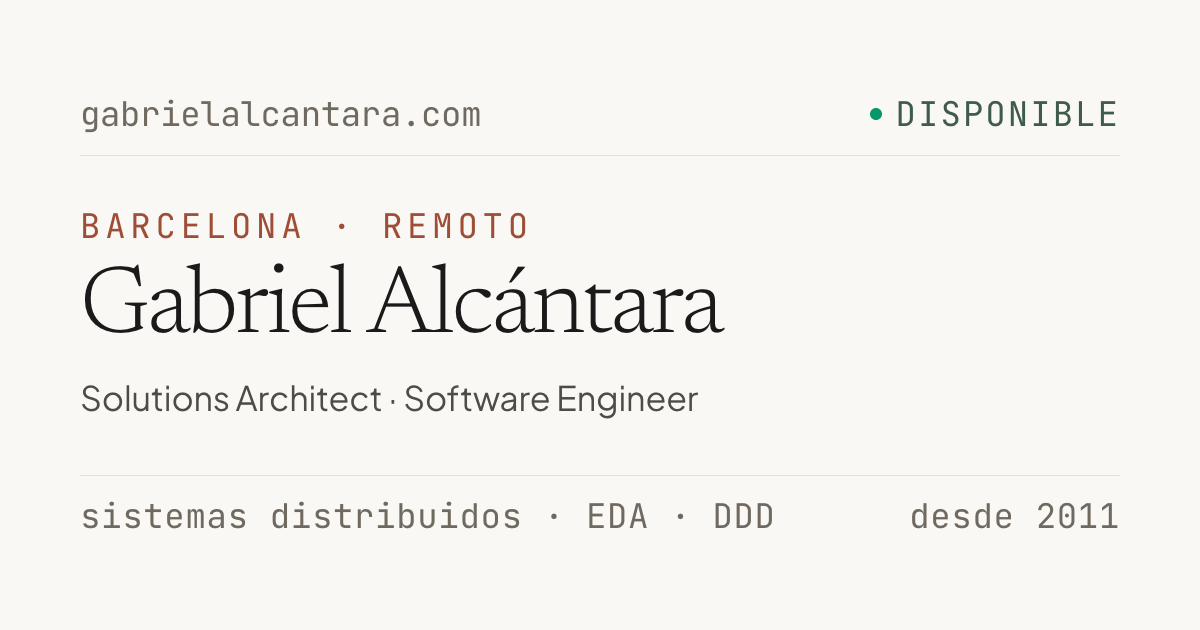
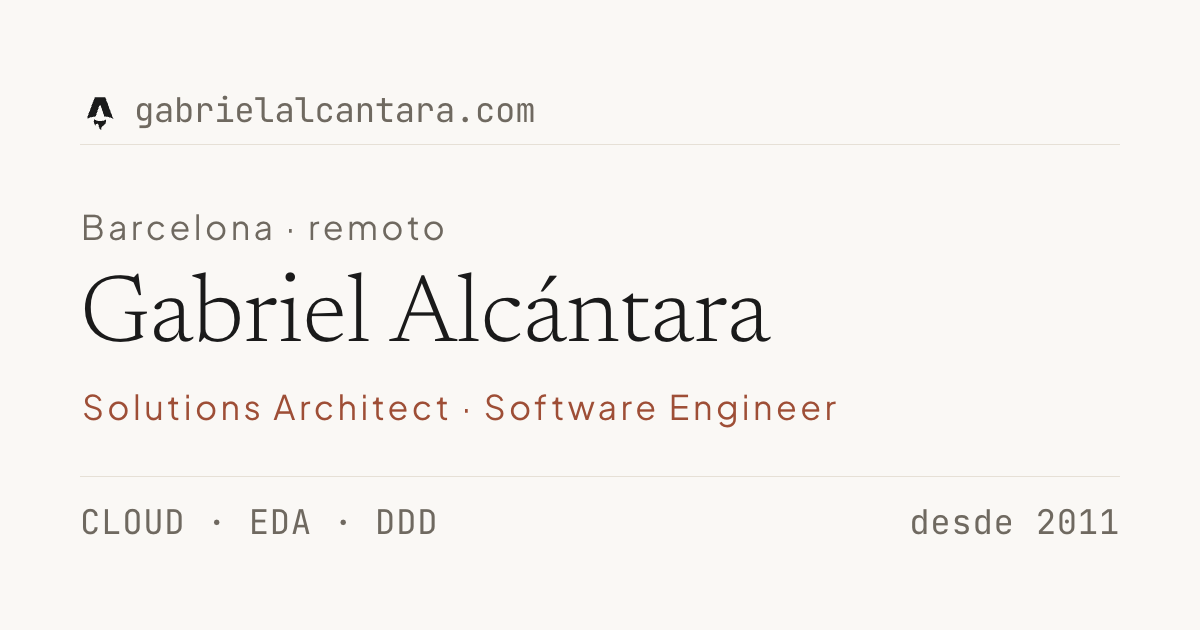
💄 style(og): rebuild the card on the site mark and the safe zone
The masthead carries the site mark and the address instead of the availability
badge, the kicker moves to sans in the faint ink, the standfirst takes the
terracotta, and every slot sits inside the 5% crop some feeds apply. The
rhythm becomes 92 / 80 / 24 / 24 / 80 / 92 and the eight cards are re-exported.

diff --git a/docs/og-image/card.html b/docs/og-image/card.html
@@ -39,21 +39,28 @@
 }
 
 :root {
-	/* Two label sizes and one display size. The heights and the two gaps derive
-	   all five tops, so the rhythm cannot drift and export.mjs can check it. */
+	/*
+	 * The editor asked for 30px on the two label rows. The exporter refuses
+	 * anything under 34: a timeline draws the card near 504px wide, so 34px
+	 * lands at about 14px on screen. Labels stay at the floor and their rows
+	 * follow line-height 1, which moves the margin from 104 to 100.
+	 */
 	--slot-label: 34px;
 	--slot-title: 96px;
 
-	--h-domain: 34px;
+	/* The masthead row is 40 so the mark fits inside it, not over the rule. */
+	--h-domain: 40px;
 	--h-eyebrow: 34px;
 	--h-title: 96px;
-	--h-sub: 46px;
+	--h-sub: 34px;
 	--h-foot: 34px;
 
-	/* One gap between the three central lines is tight; the two outer gaps and
-	   the margin carry the air, so the block reads as a group. */
-	--space: 78px;
-	--space-tight: 18px;
+	/* The eyebrow, the lead and the standfirst are one block: 24px between
+	   them, and 80px from the block to the two label rows. That ratio — three
+	   times more air outside than inside — is what makes the three read as a
+	   group instead of three evenly spaced lines. */
+	--space: 80px;
+	--space-tight: 24px;
 
 	--margin: calc(
 		(630px - var(--h-domain) - var(--h-eyebrow) - var(--h-title) -
@@ -66,15 +73,24 @@
 	--y-sub: calc(var(--y-title) + var(--h-title) + var(--space-tight));
 	--y-foot: calc(var(--y-sub) + var(--h-sub) + var(--space));
 
-	/* The hairline sits under the masthead and over the footer: attached to the
-	   outer rows, like the site's section rules. */
-	--rule-gap: 24px;
+	/* Attached to the outer rows, like the site's section rules. */
+	--rule-gap-top: 12px;
+	--rule-gap-foot: 28px;
 
 	/* The two halves of one row never touch. */
 	--foot-gap: 40px;
 
+	/*
+	 * The 5% safe zone some feeds crop to — 60 × 31.5px on this canvas, the same
+	 * guide the card editor draws. Everything lives inside it: the column starts
+	 * 20px in, and the first and last rows sit 92px from the edges. The gutter
+	 * stays a plain length because the exporter reads it with parseFloat.
+	 */
 	--x: 80px;
 	--width: 1040px;
+
+	--logo-size: 40px;
+	--logo-gap: 16px;
 
 	--paper: #faf8f5;
 	--ink: #1a1a1a;
@@ -82,6 +98,8 @@
 	--ink-faint: #6f6960;
 	--line: #e6e0d6;
 	--accent: #9e4e36;
+	--sage: #3e5c49;
+	--dot: #059669;
 }
 
 * { box-sizing: border-box; margin: 0; padding: 0; }
@@ -117,11 +135,10 @@ html, body { background: var(--paper); }
 	background: var(--line);
 }
 
-.rule--top { top: calc(var(--y-domain) + var(--h-domain) + var(--rule-gap)); }
-.rule--foot { top: calc(var(--y-foot) - var(--rule-gap)); }
+.rule--top { top: calc(var(--y-domain) + var(--h-domain) + var(--rule-gap-top)); }
+.rule--foot { top: calc(var(--y-foot) - var(--rule-gap-foot)); }
 
-/* The masthead: one mono line at address size, the way the site labels a
-   section, not a logo lockup. */
+/* The masthead: the mark and the address, on one row. */
 .masthead {
 	top: var(--y-domain);
 	height: var(--h-domain);
@@ -136,39 +153,50 @@ html, body { background: var(--paper); }
 	color: var(--ink-faint);
 }
 
-.masthead .domain { letter-spacing: -.01em; }
-
-/* The availability badge is the site's one green signal, dot included. */
-.masthead .status {
+.lockup {
 	display: inline-flex;
 	align-items: center;
-	gap: 14px;
+	gap: var(--logo-gap);
 	flex: none;
-	letter-spacing: .06em;
-	text-transform: uppercase;
-	color: #3e5c49;
 }
 
-.masthead .status::before {
-	content: "";
-	width: 12px;
-	height: 12px;
-	border-radius: 999px;
-	background: #059669;
+.mark {
+	display: inline-flex;
+	flex: none;
+	width: var(--logo-size);
+	height: var(--logo-size);
+	color: var(--ink);
 }
 
-/* The kicker: the site's terracotta mono label, tracked and uppercase. */
+.mark svg { display: block; width: 100%; height: 100%; }
+
+/* The type nudges are a property of the text, not of the row: the grid stays
+   on its declared tops and the gate can still measure the rhythm. */
+.masthead .domain {
+	display: inline-block;
+	letter-spacing: -.01em;
+	transform: translate(-2px, -2px);
+}
+
+/* The kicker: sans at label size, tracked, in the faint ink. */
 .eyebrow {
 	top: var(--y-eyebrow);
 	height: var(--h-eyebrow);
 	line-height: var(--h-eyebrow);
-	font-family: "CardMono", ui-monospace, monospace;
+	font-family: "CardSans", ui-sans-serif, system-ui, sans-serif;
 	font-size: var(--slot-label);
 	font-weight: 400;
-	letter-spacing: .14em;
-	text-transform: uppercase;
-	color: var(--accent);
+	letter-spacing: .1em;
+	text-transform: none;
+	color: var(--ink-faint);
 }
+
+.eyebrow span,
+.lead span {
+	display: inline-block;
+}
+
+.eyebrow span { transform: translate(1px, -2px); }
 
 .lead {
 	top: var(--y-title);
@@ -177,11 +205,17 @@ html, body { background: var(--paper); }
 	font-family: "CardSerif", Georgia, "Times New Roman", serif;
 	font-size: var(--slot-title);
 	font-weight: 300;
-	letter-spacing: -.03em;
+	letter-spacing: 0;
 	color: var(--ink);
 }
 
-/* The line that explains the title is body copy on the site, so it is sans. */
+/*
+ * The editor nudged the lead -3px. The exporter refuses text that invades the
+ * 80px gutter, and the lead starts on that line, so it keeps its left edge.
+ */
+.lead span { transform: translate(0, 0); }
+
+/* The line that explains the title: sans at label size, tracked, in the accent. */
 .sub {
 	top: var(--y-sub);
 	height: var(--h-sub);
@@ -189,8 +223,18 @@ html, body { background: var(--paper); }
 	font-family: "CardSans", ui-sans-serif, system-ui, sans-serif;
 	font-size: var(--slot-label);
 	font-weight: 400;
-	letter-spacing: -.005em;
-	color: var(--ink-muted);
+	letter-spacing: .1em;
+	color: var(--accent);
+}
+
+/*
+	 * The editor pulled this line 28px up, into the lead's row. It now sits on
+	 * its own row: the two lines no longer touch, and the gap above reads as a
+	 * gap instead of a collision.
+	 */
+.sub span {
+	display: inline-block;
+	transform: translate(2px, 0);
 }
 
 .foot {
@@ -213,6 +257,8 @@ html, body { background: var(--paper); }
 
 .foot .right { flex: none; }
 
+.foot span { display: inline-block; transform: translate(0, 1px); }
+
 [hidden] { display: none !important; }
 </style>
 </head>
@@ -223,15 +269,18 @@ html, body { background: var(--paper); }
 	<div class="rule rule--foot" aria-hidden="true"></div>
 
 	<div class="masthead slot" data-slot="domain">
-		<span class="domain" id="domain">gabrielalcantara.com</span>
-		<span class="status" id="status">Disponible</span>
+		<span class="lockup">
+			<span class="mark" aria-hidden="true"><svg xmlns="http://www.w3.org/2000/svg" fill="none" viewBox="0 0 128 128"><path fill="currentColor" d="M50.4 78.5a75.1 75.1 0 0 0-28.5 6.9l24.2-65.7c.7-2 1.9-3.2 3.4-3.2h29c1.5 0 2.7 1.2 3.4 3.2l24.2 65.7s-11.6-7-28.5-7L67 45.5c-.4-1.7-1.6-2.8-2.9-2.8-1.3 0-2.5 1.1-2.9 2.7L50.4 78.5Zm-1.1 28.2Zm-4.2-20.2c-2 6.6-.6 15.8 4.2 20.2a17.5 17.5 0 0 1 .2-.7 5.5 5.5 0 0 1 5.7-4.5c2.8.1 4.3 1.5 4.7 4.7.2 1.1.2 2.3.2 3.5v.4c0 2.7.7 5.2 2.2 7.4a13 13 0 0 0 5.7 4.9v-.3l-.2-.3c-1.8-5.6-.5-9.5 4.4-12.8l1.5-1a73 73 0 0 0 3.2-2.2 16 16 0 0 0 6.8-11.4c.3-2 .1-4-.6-6l-.8.6-1.6 1a37 37 0 0 1-22.4 2.7c-5-.7-9.7-2-13.2-6.2Z"/></svg></span>
+			<span class="domain" id="domain">gabrielalcantara.com</span>
+		</span>
 	</div>
-	<p class="eyebrow slot" id="eyebrow" data-slot="eyebrow">Barcelona · remoto</p>
-	<h1 class="lead slot" id="lead" data-slot="title">Gabriel Alcántara</h1>
-	<p class="sub slot" id="sub" data-slot="sub">Solutions Architect · Software Engineer</p>
+
+	<p class="eyebrow slot" data-slot="eyebrow"><span id="eyebrow">Barcelona · remoto</span></p>
+	<h1 class="lead slot" data-slot="title"><span id="lead">Gabriel Alcántara</span></h1>
+	<p class="sub slot" data-slot="sub"><span id="sub">Solutions Architect · Software Engineer</span></p>
 
 	<footer class="foot slot" data-slot="foot">
-		<span id="footLeft">sistemas distribuidos · EDA · DDD</span>
+		<span id="footLeft">CLOUD · EDA · DDD</span>
 		<span class="right" id="footRight">desde 2011</span>
 	</footer>
 </div>
@@ -245,11 +294,10 @@ html, body { background: var(--paper); }
 	var footLeft = document.getElementById('footLeft');
 	var footRight = document.getElementById('footRight');
 	var domain = document.getElementById('domain');
-	var status = document.getElementById('status');
 
 	function setText(element, value) {
 		element.textContent = value == null ? '' : String(value);
-		element.hidden = !element.textContent.trim();
+		return element.textContent.trim();
 	}
 
 	function render(copy) {
@@ -257,16 +305,14 @@ html, body { background: var(--paper); }
 		document.documentElement.lang = 'es';
 
 		if (copy.domain) setText(domain, copy.domain);
-		if (copy.status) setText(status, copy.status);
 		setText(eyebrow, copy.eyebrow);
 		setText(lead, copy.title);
 		setText(sub, copy.sub);
 		setText(footLeft, copy.footLeft);
-		setText(footRight, copy.footRight);
+		footRight.hidden = !setText(footRight, copy.footRight);
 
 		card.setAttribute('aria-label', [
 			domain.textContent.trim(),
-			status.textContent.trim(),
 			eyebrow.textContent.trim(),
 			lead.textContent.trim(),
 			sub.textContent.trim(),
@@ -289,7 +335,6 @@ html, body { background: var(--paper); }
 	render({
 		kind: query.get('kind') || 'default',
 		domain: query.get('domain'),
-		status: query.get('status'),
 		title: query.get('title'),
 		sub: query.get('sub'),
 		eyebrow: query.get('eyebrow'),

diff --git a/docs/og-image/README.md b/docs/og-image/README.md
@@ -8,17 +8,21 @@ the browser, and export when the copy or the layout changes.
 
 ## The one rule
 
-The card is a rigid template: **three faces, three sizes, five slots, one line
+The card is a rigid template: **three faces, two sizes, five slots, one line
 each, nothing reflows.** The faces and colours are the site's own: JetBrains Mono
-for the labels, Newsreader 300 for the lead, Plus Jakarta Sans for the standfirst.
+for the labels, Newsreader 300 for the lead, Plus Jakarta Sans for the kicker and
+the standfirst.
 
 | # | Slot | Face | Size | Height | Holds |
 | --- | --- | --- | --- | --- | --- |
-| 1 | domain | mono | 34 px | 34 | `gabrielalcantara.com` on the left, the availability badge on the right |
-| 2 | eyebrow | mono | 34 px | 34 | uppercase, tracked, terracotta: category, `Caso de estudio · Company`, place |
+| 1 | domain | mono | 34 px | 40 | the mark, then `gabrielalcantara.com` |
+| 2 | eyebrow | sans | 34 px | 34 | tracked, in the faint ink: category, `Caso de estudio · Company`, place |
 | 3 | title | serif 300 | 96 px | 96 | the name or the headline |
-| 4 | sub | sans | 34 px | 46 | role or standfirst, in the muted ink |
+| 4 | sub | sans | 34 px | 34 | tracked, in the accent: role or standfirst |
 | 5 | foot | mono | 34 px | 34 | stack or tags on the left, years or date on the right |
+
+The masthead row is 40 px so the mark fits inside it instead of leaking over the
+hairline; the mark is 40 px, with a 16 px gap to the domain.
 
 All five slots are filled on every card. There is no auto-fit and no second
 line — the copy is edited until it fits, which is why the articles carry their own
@@ -36,29 +40,33 @@ the card near 504 px wide, a factor of 0.42, so 34 px arrives on screen at about
 14 px. At 96 px a title fits roughly 24 characters, and in uppercase at 34 px a
 label fits roughly 40 — that is the budget the card copy is written to.
 
-The accent is the site's terracotta, `#9e4e36`, and it marks the eyebrow only.
-The one other colour is the availability dot, sage `#3e5c49` text with a `#059669`
-bullet, the same token the hero uses.
+The accent is the site's terracotta, `#9e4e36`, and it marks the standfirst only:
+the card carries no badge and no second colour.
 
 ## The rhythm
 
 The five heights and two gaps derive all five tops in `card.html`:
 
 ```
---space       78px   between the rows
---space-tight 18px   above and below the title, the tight gap of the block
---margin      97px   above the first row and below the last, whatever is left
+--space       80px   from the three-line block to the two label rows
+--space-tight 24px   inside the block: eyebrow, lead and standfirst
+--margin      92px   above the first row and below the last, whatever is left
 ```
 
-The six spaces are therefore `97 / 78 / 18 / 18 / 78 / 97`, identical on all
+The six spaces are therefore `92 / 80 / 24 / 24 / 80 / 92`, identical on all
 eight cards. `export.mjs` reads `--space`, `--space-tight` and `--margin` from the
 stylesheet, re-derives the six spaces from the slot boxes, and refuses the card
 when any of them is off by more than half a pixel. Change a gap or a height and
 the four tops follow; there are no hand-tuned numbers to forget.
 
-The two hairlines are attached to the outer rows — under the masthead and over
-the footer, 24 px from each — which is what closes the composition without
-adding a line of text.
+The two hairlines are attached to the outer rows — 12 px under the masthead and
+28 px over the footer — which is what closes the composition without adding a
+line of text.
+
+The safe zone is the 5% inset some feeds crop to — 60 × 31.5 px on this canvas,
+the same guide the card editor draws. The column starts 20 px inside it (`--x:
+80px`) and the first and last rows sit 92 px from the edges, so no slot is ever
+close to the crop.
 
 The rhythm is measured on the slot boxes, not on ink. A `Q` tail, an accent over
 a capital or the descender of a `g` dips into the space below without moving it;
@@ -91,9 +99,9 @@ and no build: the fonts are loaded from `node_modules` by relative path.
 | Query | Effect |
 | --- | --- |
 | `kind` | `default`, `case` or `post` — picks the composition |
-| `domain`, `status` | the masthead halves |
+| `domain` | the masthead address, after the mark |
 | `title`, `sub` | the lead and its standfirst |
-| `eyebrow` | terracotta label above the lead |
+| `eyebrow` | tracked label above the lead |
 | `footLeft`, `footRight` | the closing row |
 | `scale` | canvas width in px; `504` shows the feed size |
 
@@ -116,6 +124,9 @@ design instead of describing it: open it directly, no server and no build.
   grosor y color propios.
 - **Guías** (interruptor en Tarjeta): los dos bordes y el centro de la columna,
   más el top de cada fila. Son del taller, no del PNG.
+- **Zona segura** (interruptor propio): el recuadro del 5 % que algunos feeds
+  recortan —60 × 31,5 px—, con la misma medida que aplica `card.html`. También
+  es del taller: no viaja al PNG.
 - **Retícula**: los dos huecos, el margen lateral, el ancho de columna y la
   separación de las dos mitades del pie.
 - **Colores**: los ocho tokens del sitio, que las ranuras referencian por nombre.
